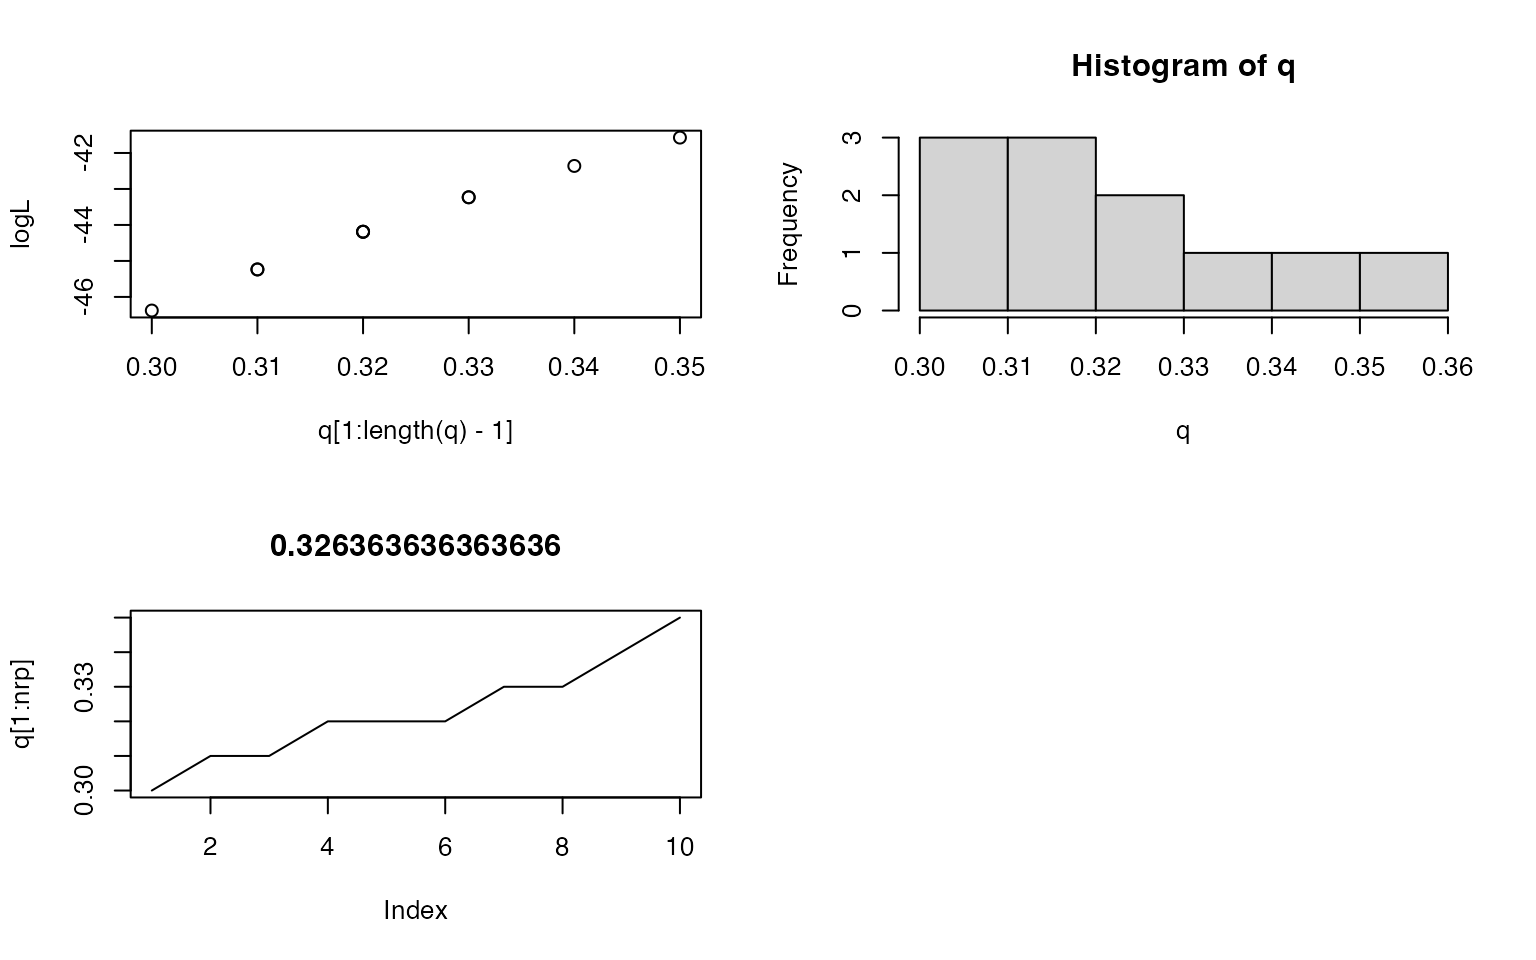
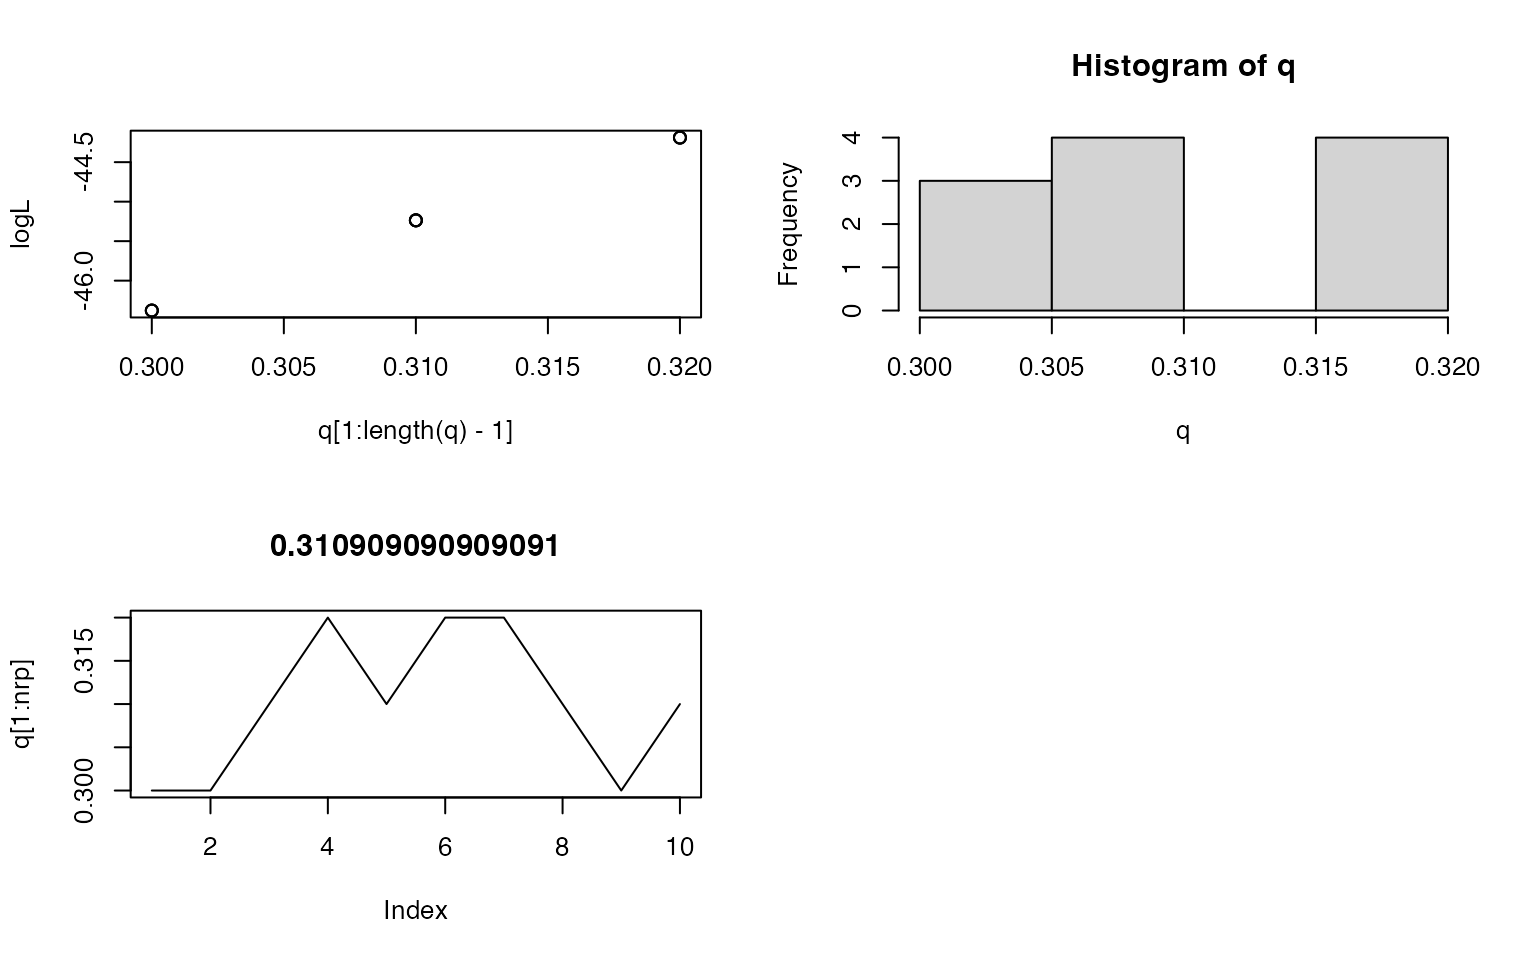
presen

diff --git a/docs/midori8.html b/docs/midori8.html
@@ -471,7 +471,7 @@ for (rp in 1:nrp){
   }
 }
 print(q)</code></pre>
-<pre><code>##  [1] 0.30 0.31 0.31 0.32 0.32 0.32 0.33 0.33 0.34 0.35 0.36</code></pre>
+<pre><code>##  [1] 0.30 0.30 0.31 0.32 0.31 0.32 0.32 0.31 0.30 0.31 0.32</code></pre>
 <pre class="r"><code>plot(q[1:length(q)-1],logL)
 plot(q[1:nrp],type=&#39;l&#39;, main=mean(q))
 hist(q)</code></pre>
